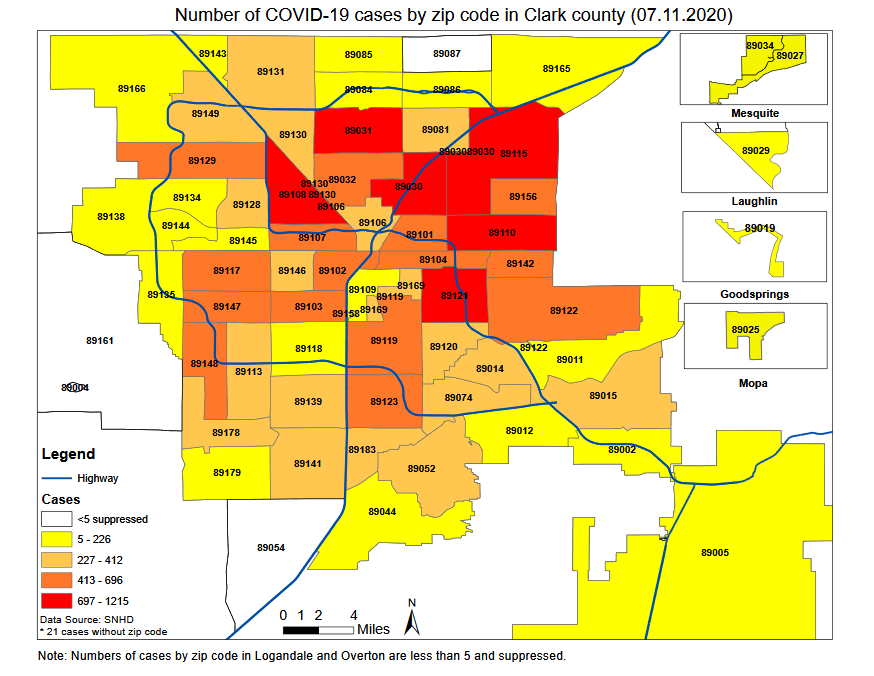
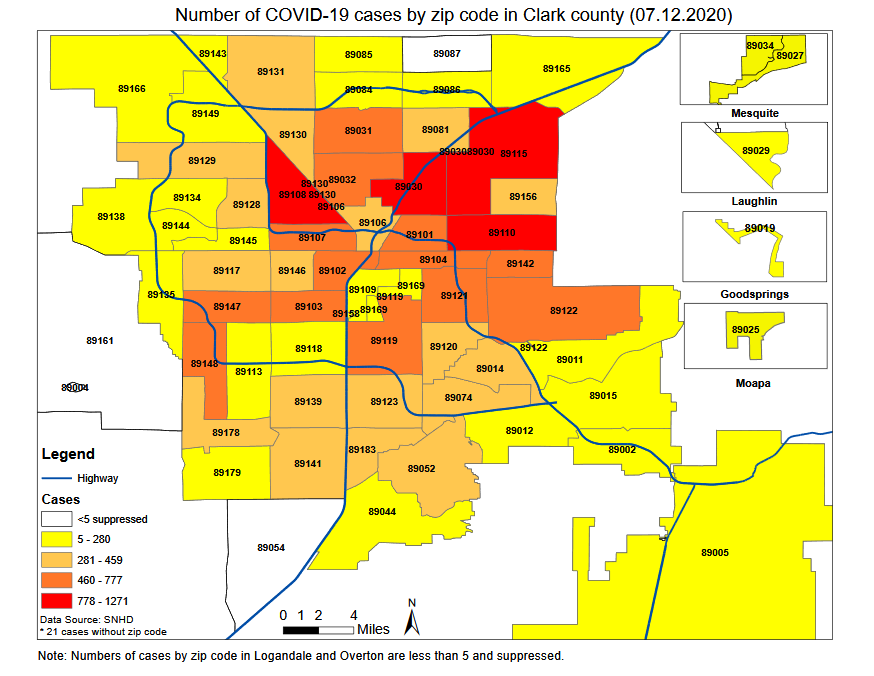
Day 131

diff --git a/src/pages/clarkcounty.js b/src/pages/clarkcounty.js
@@ -146,6 +146,7 @@ class ClarkPage extends Component {
 				'7/09/20',
 				'7/10/20',
 				'7/11/20',
+				'7/12/20',
 			],
 			datasets: [
 				{
@@ -282,6 +283,7 @@ class ClarkPage extends Component {
 						21449,
 						22286,
 						23048,
+						23803,
 					],
 				},
 			],
@@ -419,6 +421,7 @@ class ClarkPage extends Component {
 				'7/09/20',
 				'7/10/20',
 				'7/11/20',
+				'7/12/20',
 			],
 			datasets: [
 				{
@@ -555,6 +558,7 @@ class ClarkPage extends Component {
 						827,
 						837,
 						762,
+						755,
 					],
 				},
 			],
@@ -672,6 +676,7 @@ class ClarkPage extends Component {
 				'7/09/20',
 				'7/10/20',
 				'7/11/20',
+				'7/12/20',
 			],
 			datasets: [
 				{
@@ -787,6 +792,7 @@ class ClarkPage extends Component {
 						2182,
 						2219,
 						2251,
+						2266,
 						2266,
 					],
 				},
@@ -904,6 +910,7 @@ class ClarkPage extends Component {
 				'7/09/20',
 				'7/10/20',
 				'7/11/20',
+				'7/12/20',
 			],
 			datasets: [
 				{
@@ -1020,6 +1027,7 @@ class ClarkPage extends Component {
 						37,
 						32,
 						15,
+						0,
 					],
 				},
 			],
@@ -1157,6 +1165,7 @@ class ClarkPage extends Component {
 				'7/09/20',
 				'7/10/20',
 				'7/11/20',
+				'7/12/20',
 			],
 			datasets: [
 				{
@@ -1292,6 +1301,7 @@ class ClarkPage extends Component {
 						473,
 						483,
 						483,
+						483,
 					],
 					backgroundColor: 'maroon',
 				},
@@ -1346,15 +1356,15 @@ class ClarkPage extends Component {
 				'4/28/20',
 				'4/29/20',
 				'4/30/20',
-				'5/1/20',
-				'5/2/20',
-				'5/3/20',
-				'5/4/20',
-				'5/5/20',
-				'5/6/20',
-				'5/7/20',
-				'5/8/20',
-				'5/9/20',
+				'5/01/20',
+				'5/02/20',
+				'5/03/20',
+				'5/04/20',
+				'5/05/20',
+				'5/06/20',
+				'5/07/20',
+				'5/08/20',
+				'5/09/20',
 				'5/10/20',
 				'5/11/20',
 				'5/12/20',
@@ -1418,6 +1428,7 @@ class ClarkPage extends Component {
 				'7/09/20',
 				'7/10/20',
 				'7/11/20',
+				'7/12/20',
 			],
 			datasets: [
 				{
@@ -1542,6 +1553,7 @@ class ClarkPage extends Component {
 						5,
 						10,
 						0,
+						0,
 					],
 				},
 			],
@@ -1607,15 +1619,15 @@ class ClarkPage extends Component {
 				'4/28/20',
 				'4/29/20',
 				'4/30/20',
-				'5/1/20',
-				'5/2/20',
-				'5/3/20',
-				'5/4/20',
-				'5/5/20',
-				'5/6/20',
-				'5/7/20',
-				'5/8/20',
-				'5/9/20',
+				'5/01/20',
+				'5/02/20',
+				'5/03/20',
+				'5/04/20',
+				'5/05/20',
+				'5/06/20',
+				'5/07/20',
+				'5/08/20',
+				'5/09/20',
 				'5/10/20',
 				'5/11/20',
 				'5/12/20',
@@ -1679,6 +1691,7 @@ class ClarkPage extends Component {
 				'7/09/20',
 				'7/10/20',
 				'7/11/20',
+				'7/12/20',
 			],
 			datasets: [
 				{
@@ -1805,16 +1818,17 @@ class ClarkPage extends Component {
 						12.8,
 						13.3,
 						13.3,
+						13.4,
 						13.3,
-						13.3,
-						13.2,
-						13.1,
-						13.8,
-						14.0,
+						13.4,
+						14.1,
+						14.2,
 						14.3,
-						14.7,
-						14.9,
-						16.5,
+						14.6,
+						14.6,
+						14.6,
+						15.0,
+						17.6,
 					],
 				},
 				{
@@ -1890,6 +1904,7 @@ class ClarkPage extends Component {
 						null,
 						null,
 						null,
+						6.9,
 						6.9,
 						6.9,
 						6.9,
@@ -2094,6 +2109,7 @@ class ClarkPage extends Component {
 						3.9,
 						3.9,
 						3.9,
+						3.9,
 					],
 				},
 			],
@@ -2104,7 +2120,7 @@ class ClarkPage extends Component {
 			datasets: [
 				{
 					label: 'Age of Cases',
-					data: [407, 1495, 2811, 11056, 4681, 2579],
+					data: [426, 1564, 2921, 11433, 4800, 2640],
 					backgroundColor: [
 						'rgb(54, 162, 235)', //blue
 						'rgb(255, 99, 132)', //salmon
@@ -2122,7 +2138,7 @@ class ClarkPage extends Component {
 			datasets: [
 				{
 					label: 'Sex',
-					data: [11741, 11107, 200],
+					data: [12126, 11467, 210],
 					backgroundColor: [
 						'rgb(255, 99, 132)',
 						'rgb(54, 162, 235)',
@@ -2164,7 +2180,7 @@ class ClarkPage extends Component {
 											</div>
 										</div>
 										<div className='card-value pt-4'>
-											<h1>23,048</h1>
+											<h1>23,803</h1>
 										</div>
 									</div>
 								</div>
@@ -2188,7 +2204,7 @@ class ClarkPage extends Component {
 											</div>
 										</div>
 										<div className='card-value pt-4'>
-											<h1>67.3%</h1>
+											<h1>66.6%</h1>
 										</div>
 									</div>
 								</div>

diff --git a/src/pages/nevada.js b/src/pages/nevada.js
@@ -141,6 +141,7 @@ class NevadaPage extends Component {
 				'7/09/20',
 				'7/10/20',
 				'7/11/20',
+				'7/12/20',
 			],
 			datasets: [
 				{
@@ -276,6 +277,7 @@ class NevadaPage extends Component {
 						25908,
 						26838,
 						27683,
+						28515,
 					],
 					fill: false, // Don't fill area under the line
 					backgroundColor: '#933A16', // Line color
@@ -414,6 +416,7 @@ class NevadaPage extends Component {
 				'7/09/20',
 				'7/10/20',
 				'7/11/20',
+				'7/12/20',
 			],
 			datasets: [
 				{
@@ -550,6 +553,7 @@ class NevadaPage extends Component {
 						1004,
 						930,
 						845,
+						832,
 					],
 					fill: false, // Don't fill area under the line
 					backgroundColor: '#933A16', // Bar color
@@ -688,6 +692,7 @@ class NevadaPage extends Component {
 				'7/09/20',
 				'7/10/20',
 				'7/11/20',
+				'7/12/20',
 			],
 			datasets: [
 				{
@@ -823,6 +828,7 @@ class NevadaPage extends Component {
 						589,
 						590,
 						591,
+						591,
 					],
 					backgroundColor: 'maroon',
 				},
@@ -877,15 +883,15 @@ class NevadaPage extends Component {
 				'4/28/20',
 				'4/29/20',
 				'4/30/20',
-				'5/1/20',
-				'5/2/20',
-				'5/3/20',
-				'5/4/20',
-				'5/5/20',
-				'5/6/20',
-				'5/7/20',
-				'5/8/20',
-				'5/9/20',
+				'5/01/20',
+				'5/02/20',
+				'5/03/20',
+				'5/04/20',
+				'5/05/20',
+				'5/06/20',
+				'5/07/20',
+				'5/08/20',
+				'5/09/20',
 				'5/10/20',
 				'5/11/20',
 				'5/12/20',
@@ -949,6 +955,7 @@ class NevadaPage extends Component {
 				'7/09/20',
 				'7/10/20',
 				'7/11/20',
+				'7/12/20',
 			],
 			datasets: [
 				{
@@ -1073,6 +1080,7 @@ class NevadaPage extends Component {
 						3,
 						1,
 						1,
+						0,
 					],
 				},
 			],
@@ -1190,6 +1198,7 @@ class NevadaPage extends Component {
 				'7/09/20',
 				'7/10/20',
 				'7/11/20',
+				'7/12/20',
 			],
 			datasets: [
 				{
@@ -1308,6 +1317,7 @@ class NevadaPage extends Component {
 						7.7,
 						7.9,
 						8.0,
+						8.1,
 					],
 				},
 				{
@@ -1426,6 +1436,7 @@ class NevadaPage extends Component {
 						12.7,
 						13.4,
 						13.4,
+						13.6,
 					],
 				},
 				{
@@ -1481,6 +1492,7 @@ class NevadaPage extends Component {
 						null,
 						null,
 						null,
+						10.4,
 						10.4,
 						10.4,
 						10.4,
@@ -1664,6 +1676,7 @@ class NevadaPage extends Component {
 						6.0,
 						6.0,
 						6.0,
+						6.0,
 					],
 				},
 			],
@@ -1699,7 +1712,7 @@ class NevadaPage extends Component {
 										</div>
 									</div>
 									<div className='card-value pt-4'>
-										<h1>346,799</h1>
+										<h1>352,456</h1>
 									</div>
 								</div>
 							</div>
@@ -1711,7 +1724,7 @@ class NevadaPage extends Component {
 										</div>
 									</div>
 									<div className='card-value pt-4'>
-										<h1>319,873</h1>
+										<h1>324,678</h1>
 									</div>
 								</div>
 							</div>
@@ -1723,7 +1736,7 @@ class NevadaPage extends Component {
 										</div>
 									</div>
 									<div className='card-value pt-4'>
-										<h1>27,683</h1>
+										<h1>28,515</h1>
 									</div>
 								</div>
 							</div>
